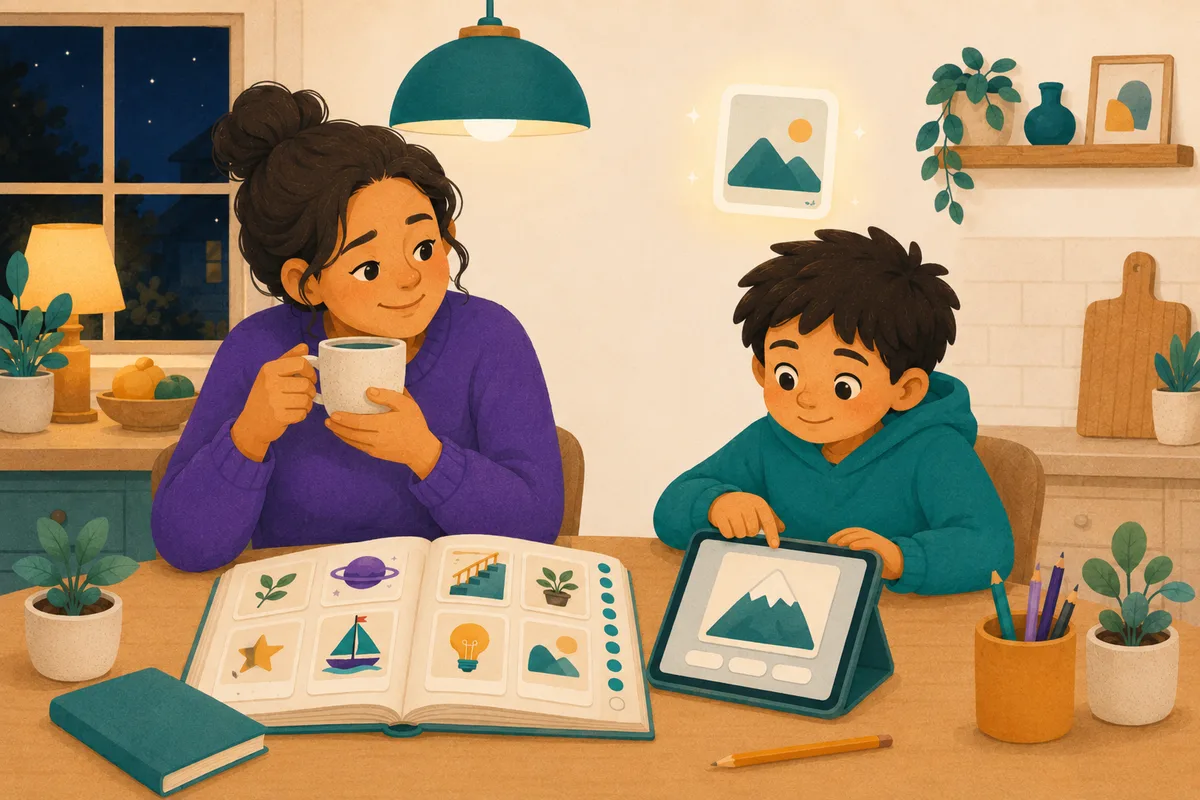
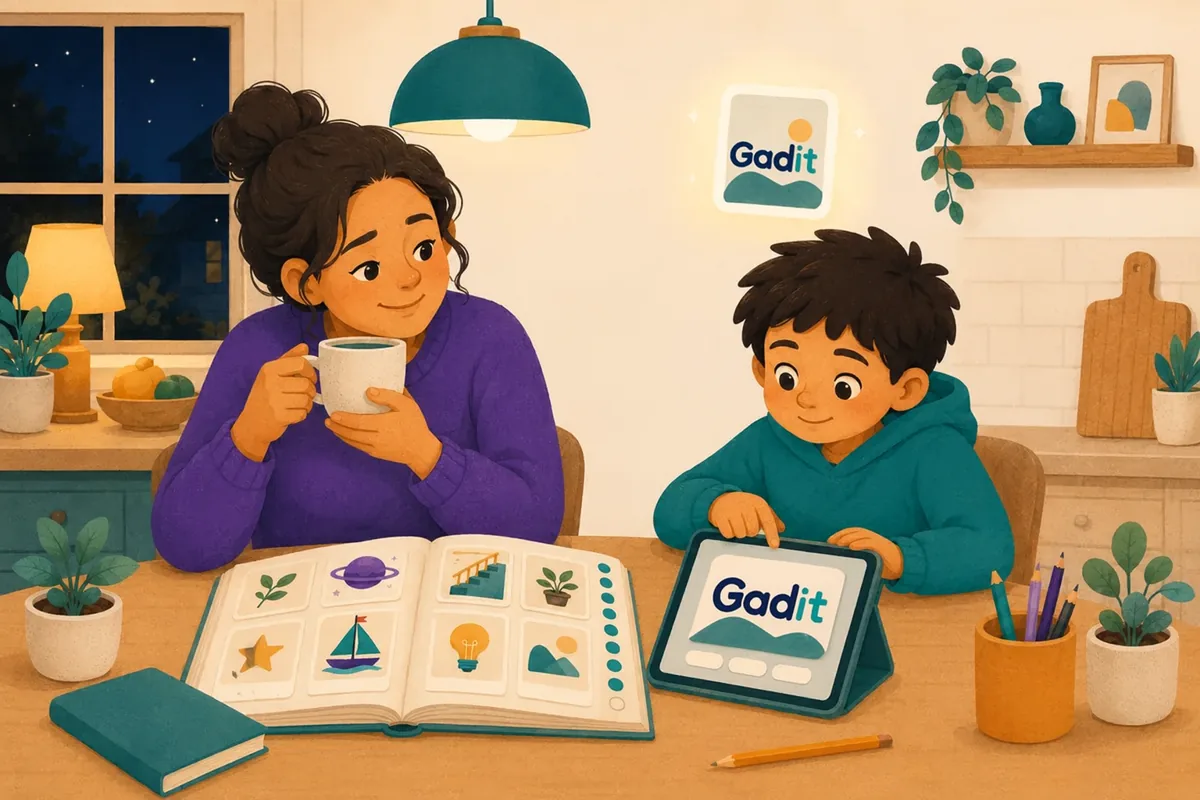
families landing: 8-card summary under the real steps, new safe/final art with Gadit on screen, drop old pain art (he)

Changed region(s): [[0.555, 0.6875, 0.7092, 0.8438], [0.5858, 0.1562, 0.7092, 0.2812], [0.6475, 0.375, 0.74, 0.4375]]

diff --git a/web/src/app/families/FamiliesLandingClient.tsx b/web/src/app/families/FamiliesLandingClient.tsx
@@ -6664,9 +6664,11 @@ export default function FamiliesLandingClient({ withNav = false }: { withNav?: b
           <div className="fam-section fam-center">
             <div className="fam-kicker fam-kicker-light">{c.painKicker}</div>
             <h2 className="fam-h2">{c.painTitle}</h2>
+            {!real && (
             <div className="fam-inline-img">
               <Image src="/fam/pain.webp" alt="" width={1200} height={900} sizes="(max-width: 760px) 92vw, 600px" />
             </div>
+            )}
             <p className="fam-body fam-body-center">{c.painBody1}</p>
             <p className="fam-body fam-body-center fam-body-strong">{c.painBody2}</p>
             <p className="fam-reframe">{c.reframe}</p>
@@ -6698,6 +6700,7 @@ export default function FamiliesLandingClient({ withNav = false }: { withNav?: b
             <div className="fam-kicker">{real ? real.howKicker : c.chainKicker}</div>
             <h2 className="fam-h2">{real ? real.howTitle : c.chainTitle}</h2>
             {real ? (
+              <>
               <div className="fam-real-steps">
                 {real.steps.map((st, i) => (
                   <div key={i} className="fam-real-step">
@@ -6710,6 +6713,27 @@ export default function FamiliesLandingClient({ withNav = false }: { withNav?: b
                   </div>
                 ))}
               </div>
+              {/* Summary (Gadi 2026-09-28): the illustrated 8-card "for every
+                  word, the child gets all this" grid stays under the real steps. */}
+              <h2 className="fam-h2" style={{ marginTop: 64 }}>{c.chainTitle}</h2>
+              <div className="fam-how-steps">
+                {c.howBlocks.slice(0, HOW_MOCKS.length).map((blk, i) => {
+                  const Mock = HOW_MOCKS[i];
+                  return (
+                    <div key={i} className="fam-how-step">
+                      <div className="fam-how-step-head">
+                        <span className="fam-how-num">{i + 1}</span>
+                        <span className="fam-how-text">{blk.t}</span>
+                      </div>
+                      <div className="fam-how-visual">
+                        <Mock lang={lang} />
+                      </div>
+                      <p className="fam-how-body">{blk.b}</p>
+                    </div>
+                  );
+                })}
+              </div>
+              </>
             ) : (
             <div className="fam-how-steps">
               {c.howBlocks.map((blk, i) => {
@@ -6881,7 +6905,7 @@ export default function FamiliesLandingClient({ withNav = false }: { withNav?: b
             <ShieldBigIcon />
             <h2 className="fam-h2">{c.safeTitle}</h2>
             <div className="fam-inline-img">
-              <Image src="/fam/safe.webp" alt="" width={1200} height={900} sizes="(max-width: 760px) 92vw, 560px" />
+              <Image src="/fam/safe.webp" alt="" width={1200} height={800} sizes="(max-width: 760px) 92vw, 560px" />
             </div>
             <p className="fam-body fam-body-center">{c.safeBody}</p>
             <p className="fam-safe-line">{c.safeLine}</p>
